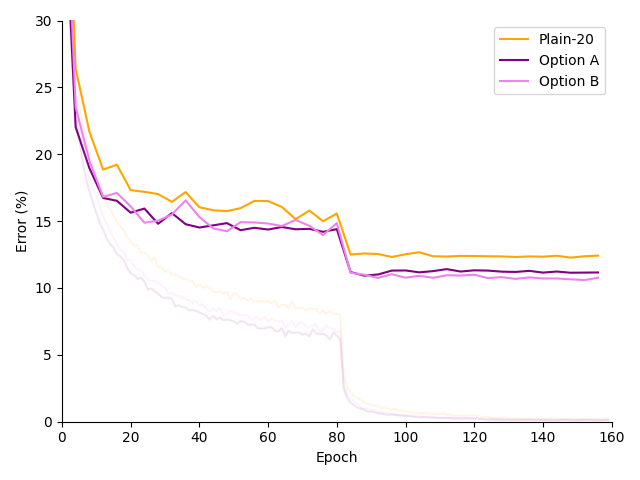
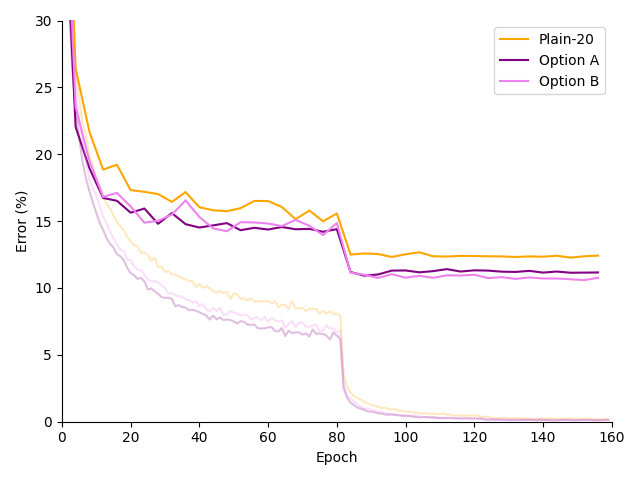
increased opacity of training error

diff --git a/plot.py b/plot.py
@@ -10,7 +10,7 @@ def plot(graph, info):
         test_errors = np.load(os.path.join(path, 'test_errors.npy'))
         train_errors = np.load(os.path.join(path, 'train_errors.npy'))
         graph.plot(test_errors[0], test_errors[1] * 100, label=label, color=color)
-        graph.plot(train_errors[0], train_errors[1] * 100, color=color, alpha=0.1)
+        graph.plot(train_errors[0], train_errors[1] * 100, color=color, alpha=0.25)
     graph.legend()
 
 

diff --git a/README.md b/README.md
@@ -4,7 +4,7 @@ PyTorch implementations of the deep residual networks published in "Deep Residua
 
 ## Methods
 The images were preprocessed by subtracting the mean pixel value from each pixel. Additionally,
-images are padded by 4 pixels on each side and a random 32x32 crop is used for training.
+images were padded by 4 pixels on each side and a random 32x32 crop is used for training.
 
 Stochastic gradient descent (SGD) was used as the optimizer with a weight decay of 0.0001 and
 momentum of 0.9. The weights were initialized using the Kaiming normal distribution as described in
